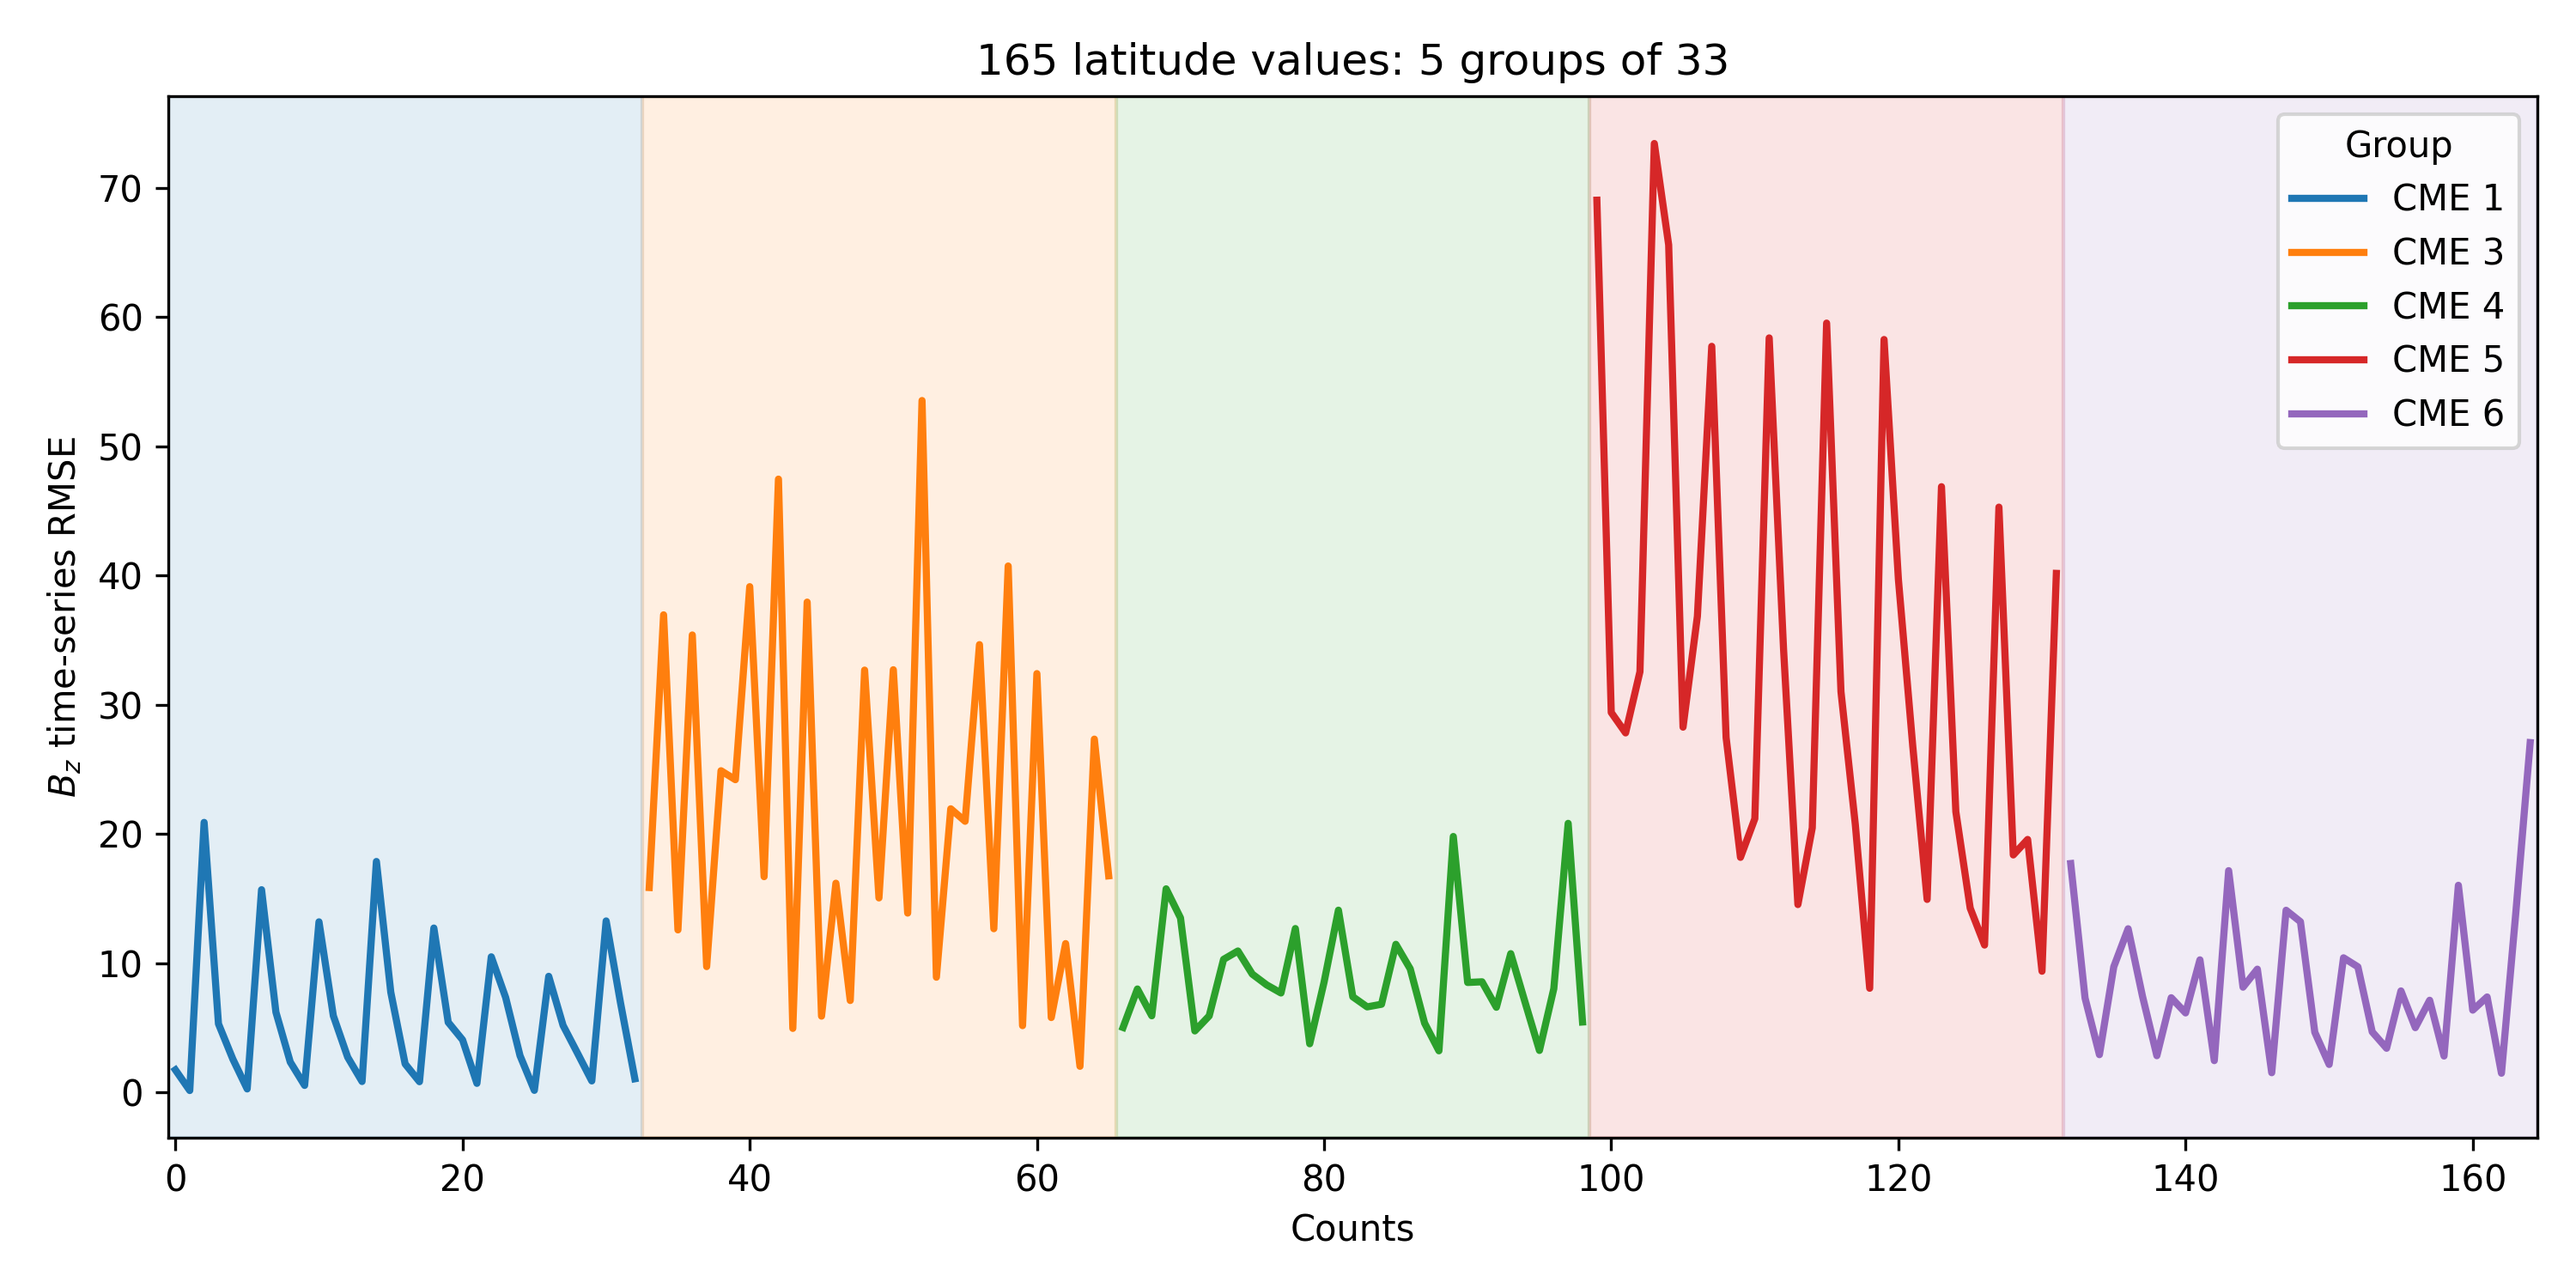
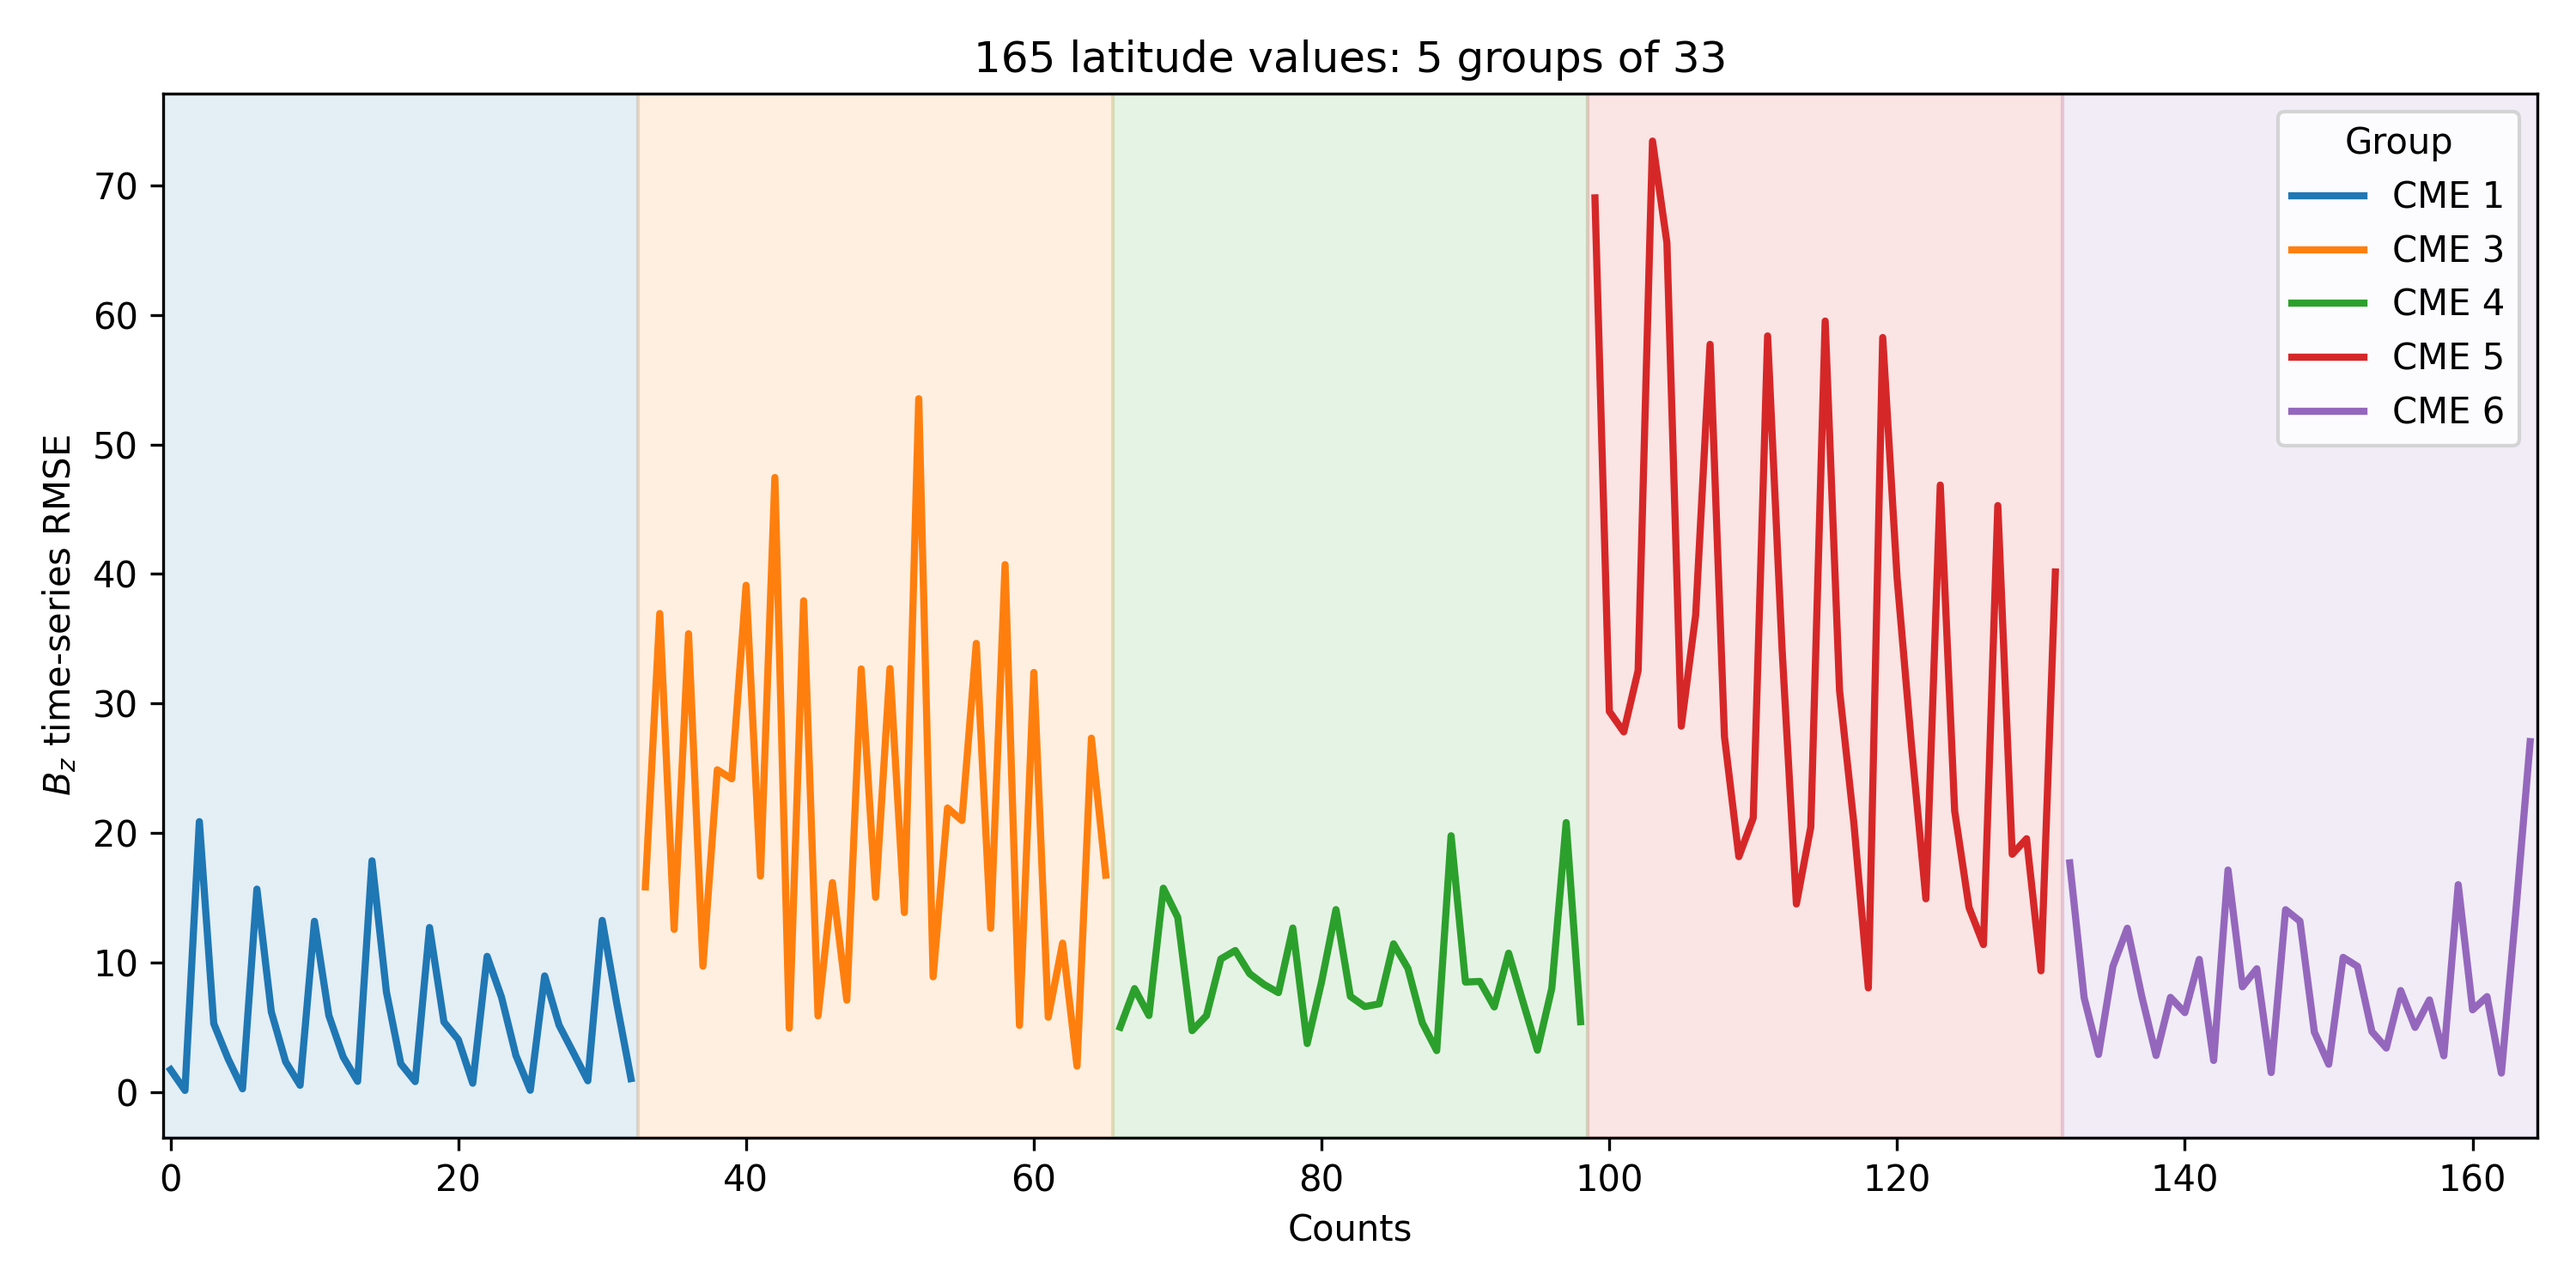
commiting the changes on August 21 at 7:30 am

diff --git a/scripts/simulation_post_processing/sensitivity_analysis_B/sensitivity_analysis_B.py b/scripts/simulation_post_processing/sensitivity_analysis_B/sensitivity_analysis_B.py
@@ -20,6 +20,13 @@ pl.Config.set_tbl_rows(-1)      # polars settings to show all the rows
 # place holder for cme duration - I will figure out how to calculate CME end time later
 n_hours = 15
 den_jump = 0.1
+
+# all the parameters and the one we want to plot
+time_series_parameters = {"column_1" : "time", "column_2" : "Distance", "column_3" : "lon", 
+                          "column_4" : "lat", "column_5" : "density", "column_6" : "v_x", 
+                          "column_7" : "v_y", "column_8" : "v_z", "column_9" : "p", 
+                          "column_10" : "B_x", "column_11" : "B_y", "column_12" : "B_z", 
+                          "column_13" : "T"}
 time_series_parameter = "B_z"
 
 address = "../../../Data/Sensitivity_analysis_B/"
@@ -129,15 +136,13 @@ def find_TOA(df0, df1, df2):
 
     return time_stamp_1, time_stamp_2
 
-def plot_difference(param_dict, gcs_param):
+def plot_difference(param_dict, gcs_param, cmes):
     """ It plots the MSE differences and shades each cme differently, in case 
         the sensitivity varies accross CMEs
     """
     y = np.asarray(param_dict[gcs_param])
 
-    cmes = [1, 3, 4, 5, 6]
-
-    n_groups = 5
+    n_groups = len(cmes)
     group_size = 33
     colors = plt.cm.tab10(np.arange(n_groups))
 
@@ -169,20 +174,20 @@ def plot_difference(param_dict, gcs_param):
     plt.savefig(f"figures/{time_series_parameter}_{gcs_param}_diff.png", dpi = 300)
     plt.close()
 
-def box_plot(param_dict):
+def box_plot(param_dict, time_series_param):
     """
     Takes in the param dictionary and makes a box plot 
     """
 
-    plt.boxplot(param_dict.values(), tick_labels = param_dict.keys(), whis = 1.5)
+    plt.boxplot(param_dict.values(), tick_labels = param_dict.keys())
 
     # Add details
     plt.title("Box Plot of param sensitivities on Bz")
     plt.xlabel("GCS params")
-    plt.ylabel("$B_{z}$ RMSE (nT)")
+    plt.ylabel(f"${time_series_parameter}$ RMSE (nT)")
 
     plt.tight_layout
-    plt.savefig("figures/box_plot_all_params.png", dpi = 300)
+    plt.savefig(f"figures/box_plot_{time_series_param}.png", dpi = 300)
     plt.close()
 
 ########################################
@@ -239,10 +244,9 @@ for cme_num in cme_nums:
             filename0 = f"{address}Probe_files_{cme_num}/Earth_Ensemble_0.dat"
             filename1 = f"{address}Probe_files_{cme_num}/Earth_Ensemble_{pair[0]}.dat"
             filename2 = f"{address}Probe_files_{cme_num}/Earth_Ensemble_{pair[1]}.dat"
-            df0 = pl.read_csv(filename0, separator = " ", skip_rows = 3, has_header = False)
-            df1 = pl.read_csv(filename1, separator = " ", skip_rows = 3, has_header = False)
-            df2 = pl.read_csv(filename2, separator = " ", skip_rows = 3, has_header = False)
-
+            df0 = pl.read_csv(filename0, separator = " ", skip_rows = 3, has_header = False).rename(time_series_parameters)
+            df1 = pl.read_csv(filename1, separator = " ", skip_rows = 3, has_header = False).rename(time_series_parameters)
+            df2 = pl.read_csv(filename2, separator = " ", skip_rows = 3, has_header = False).rename(time_series_parameters)
 
             # make the year into datetime columns
             df0 = df0.with_columns(
@@ -263,13 +267,24 @@ for cme_num in cme_nums:
                 ).alias("date")
             )
 
+            # check if time_series_parameter is B_t. If so, then make this parameter
+            if time_series_parameter == "B_t":
+
+                df0 = df0.with_columns(
+                    (pl.col("B_x")**2 + pl.col("B_y")**2 + pl.col("B_z")**2).sqrt().alias("B_t")
+                )
+                df1 = df1.with_columns(
+                    (pl.col("B_x")**2 + pl.col("B_y")**2 + pl.col("B_z")**2).sqrt().alias("B_t")
+                )
+                df2 = df2.with_columns(
+                    (pl.col("B_x")**2 + pl.col("B_y")**2 + pl.col("B_z")**2).sqrt().alias("B_t")
+                )
+
+
             # keep only density (column_5), B_z (12), and date columns
-            df0 = df0.select(["date", "column_5", "column_12"])
-            df1 = df1.select(["date", "column_5", "column_12"])
-            df2 = df2.select(["date", "column_5", "column_12"])
-            df0 = df0.rename({"column_5": "density", "column_12": time_series_parameter})
-            df1 = df1.rename({"column_5": "density", "column_12": time_series_parameter})
-            df2 = df2.rename({"column_5": "density", "column_12": time_series_parameter})
+            df0 = df0.select(["date", "density", time_series_parameter])
+            df1 = df1.select(["date", "density", time_series_parameter])
+            df2 = df2.select(["date", "density", time_series_parameter])
 
             # interpolate to match df0 time series 
             target_dates = df0.select("date").sort("date")
@@ -300,6 +315,6 @@ for cme_num in cme_nums:
 
 # make the difference figures for all the parameters accross all the CMEs 
 for param in params:
-    plot_difference(param_sensitivity, param)
+    plot_difference(param_sensitivity, param, cme_nums)
 
-box_plot(param_sensitivity)
+box_plot(param_sensitivity, time_series_parameter)
